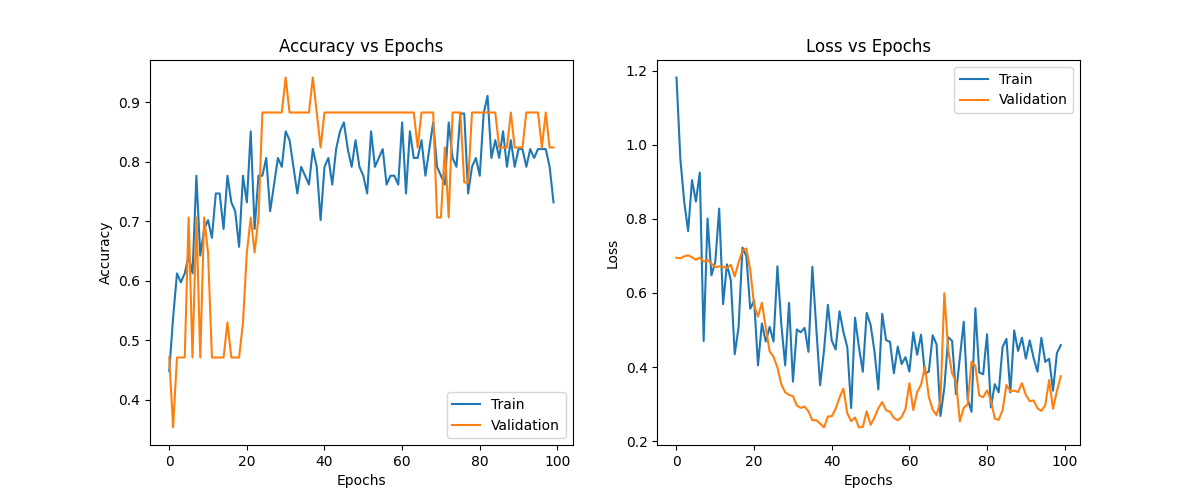
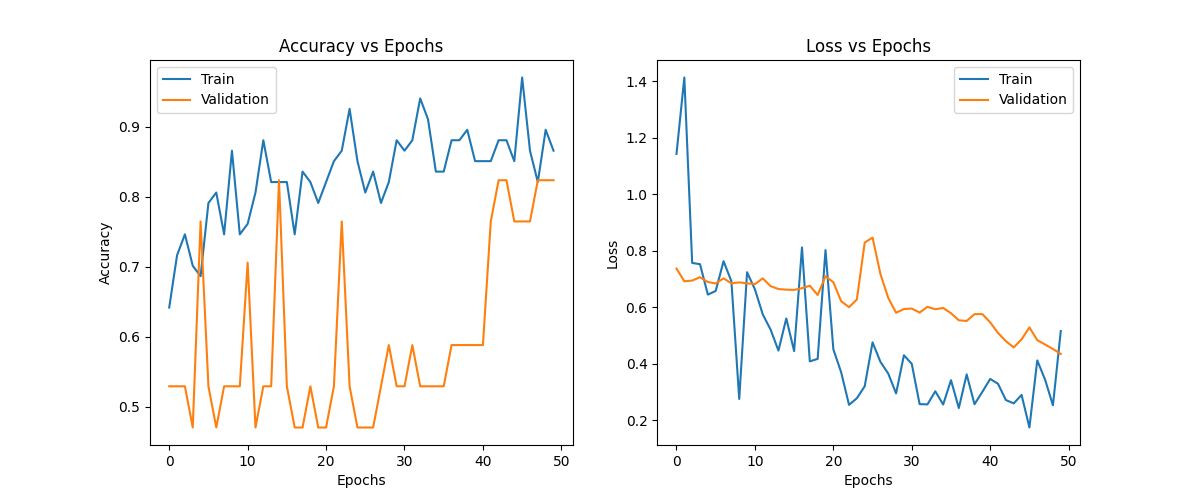
Testing

diff --git a/Drafts/part_two.py b/Drafts/part_two.py
@@ -10,7 +10,7 @@ import numpy as np
 DATA_DIR = pathlib.Path("SIZE_120_rescaled_max_area_1024")  # Path to the dataset
 IMG_SIZE = (120, 120)  # Image dimensions
 BATCH_SIZE = 32  # Batch size for training
-EPOCHS = 60  # Number of epochs for training
+EPOCHS = 15  # Number of epochs for training
 
 # --- Data Augmentation ---
 # Apply random transformations to increase dataset diversity

diff --git a/train_cnn.py b/train_cnn.py
@@ -155,7 +155,7 @@ reduce_lr = ReduceLROnPlateau(monitor='val_loss', factor=0.5, patience=4, min_lr
 # -------------------------------
 history = model.fit(
     train_generator,
-    epochs=100,
+    epochs=50,
     validation_data=val_generator,
     class_weight=class_weights_dict,
     callbacks=[early_stop, reduce_lr]
